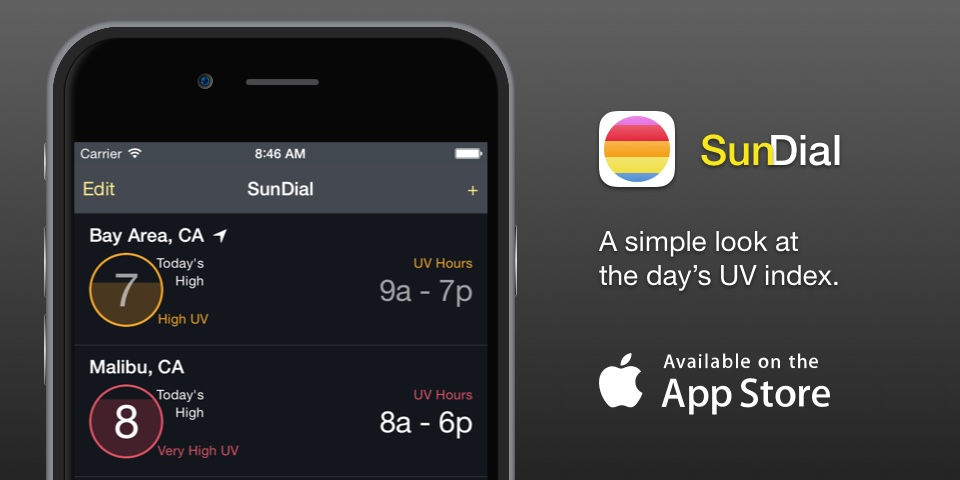
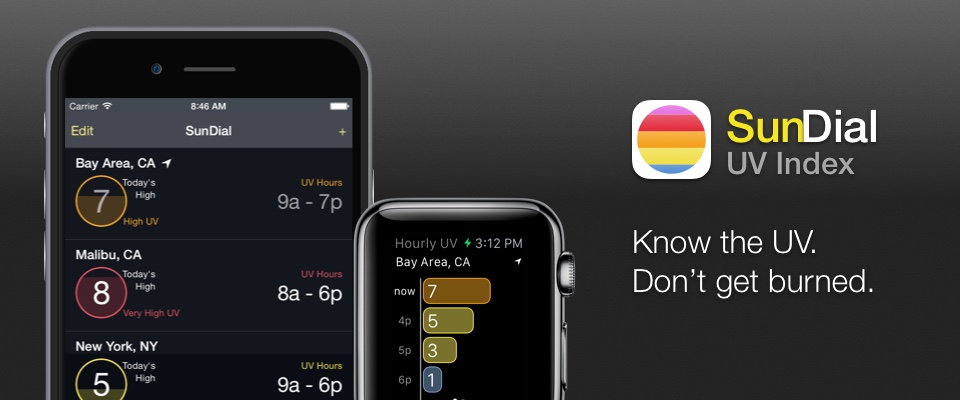
SunDial site June re-vamp.
Added new images which include apple watch app.
Added why uv and why sundial divs.
Re-styled text and headers.

diff --git a/index.html b/index.html
@@ -18,19 +18,61 @@
 -->
             </div>
             <a href="https://itunes.apple.com/us/app/sundial-uv-index/id952406318?ls=1&mt=8">
+              <div class = "heroImageContainer">
                <div class = "heroImage">
                </div>
+               </div>
             </a>
-           <div class = "aboutDiv">
-               Here at Appremium, we are dedicated to building helpful, easy to use apps.
+           <div class = "whyUVDiv">
+               <h1>Why UV?</h1>
+               <h2><b>Sun Burn, Skin Aging, </b>
+               <br>
+               <i>and even</i> <b>Skin Cancer.</b></h2>
                <br>
                <br>
-               We believe applications should free your time and your mind, not consume them.
+               The UV Index is a measurement of Ultraviolet Radiation from the Sun.
+               <br>
+               <br>
+                 The UV Index shows how intense the Sun's rays are at a given time.
+                 <br>
+                 <br>
+                 <br>
+                  <br>
+Too much exposure to UV rays can cause skin damage.
+        <br>
+        <br>
+        This can result in sun burns, as well as pre-mature aging and wrinkling of the skin.
+         <br>
+         <br>
+          UV over-exposure is also the primary cause of the skin cancer Melanoma.
+          <br>
+          <br>
+          <br>
+          <br>
+          By wearing Sun protection, and by avoiding UV over-exposure, you can help reduce your risk of skin damage.
+          <a href="http://www.epa.gov">
+          <div class = "Button">
+              <h3><b>Learn more about the UV Index. ></b></h3>
+          </div>
+          </a>
+           </div>
+           <div class = "whySunDialDiv">
+               <h1>How does SunDial help?</h1>
+<!--               <h3><b>SunDial: UV Index takes the guesswork out of avoiding UV over-exposure.</b></h3>-->
+               <div class = "featureRect">
+               <h2><b>UV, on the go.</b></h2>
+               <h3>With SunDial, accurate and up-to-date UV index forecasts are right on your phone or wrist.</h3>
+               </div>
+               <div class = "featureRect">
+               <h2><b>UV, at your location.</b></h2>
+               <h3>SunDial automatically detects your location and shows the current and upcoming UV index for wherever you are.</h3>
+               <i>(SunDial only works within the USA)</i>
+               </div>
            </div>
             <div class = "newsDiv">
-                <b>News:
-                <br>
-                <br>SunDial update 2.0.1 released!
+                <h1>News:</h1>
+                <b>
+                SunDial update 2.0.1 released!
                 <br>
                 </b><i>5/18/2015</i>
                 <br>
@@ -56,9 +98,7 @@
                 :)
             </div>
            <div class = "contactDiv">
-              <i>Get in touch:</i>
-              <br>
-              <br>
+              <h3><i>Get in touch:</i></h3>
                 <b>contact@appremium.com</b>
            </div>
            <div class = "footer">

diff --git a/stylesheet.css b/stylesheet.css
@@ -6,12 +6,24 @@ html, body {
     color: #1d323d;
 }
 
-a{
+a {
     color: #1d323d;    
 }
 
-h1{
-    color: #1d323d
+h1 {
+    color: #1d323d;
+    font-weight: 200;
+    font-size: 3.4em;
+}
+
+h2 {
+    font-weight: 200;
+    font-size: 2.4em;
+}
+
+h3 {
+    font-weight: 200;
+    font-size: 1.6em;
 }
 
 h4 {
@@ -20,7 +32,8 @@ h4 {
 
 .container {
     min-height: 100%;
-    width: 960px;
+    /*width: 960px;*/
+    width: 100%;
     margin-left: auto;
     margin-right: auto;
 }
@@ -43,25 +56,45 @@ h4 {
     display: inline;
 }
 
-.getintouchbutton {
-    width: 128px;
-    height: 32px;
-    font-size: 0.5em;
+.Button {
+    margin-left: 20%;
+    margin-right: 20%;
     text-align: center;
     line-height: 2em;
-    margin-top: 2%;
-    background: #FFFFFF;
+    margin-top: 8%;
+    background-color: white;
     border: 1px solid #333333;
     box-shadow: 0px 1px 2px 0px rgba(0,0,0,0.50);
-    display: inline;
-    float: right;
+}
+
+.featureRect {
+/*
+    margin-left: 10%;
+    margin-right: 10%;
+*/
+    text-align: left;
+    line-height: 2em;
+    margin-top: 8%;
+    background-color: transparent;
+    border-bottom: 2px solid #333333;
+/*    border-top: 2px solid #333333;*/
+}
+
+.heroImageContainer {
+    height: 400px;
+    box-shadow: inset 0px 1px 2px 0px #333333;
+    position: relative;
+    background-image: linear-gradient(-180deg, #616161 0%, #242424 50%);
+    background-position: center;
+    background-repeat: no-repeat;
+    border: 1px solid #586870;
+    border-top: 0px;
 }
 
 .heroImage {
-    height: 480px;
+    height: 400px;
     box-shadow: inset 0px 1px 2px 0px #333333;
     position: relative;
-    background-color: #333333;
     background-image: -webkit-image-set(                 url(images/SunDial_Hero@1x.jpg) 1x, url(images/SunDial_Hero@2x.jpg) 2x);
     background-position: center;
     background-repeat: no-repeat;
@@ -69,16 +102,29 @@ h4 {
     border-top: 0px;
 }
 
-.aboutDiv {
+.whyUVDiv {
     padding: 5%;
+    padding-top: 2%;
     text-align: left;
-    font-size: 1.2em;
+/*    font-size: 1.8em;*/
     border: 1px solid #586870;
     border-top: 0px;
+    background-color: white;
+}
+
+.whySunDialDiv {
+    padding: 5%;
+    padding-top: 2%;
+    text-align: left;
+/*    font-size: 1.8em;*/
+    border: 1px solid #586870;
+    border-top: 0px;
+    background-color: white;
 }
 
 .newsDiv {
     padding: 5%;
+    padding-top: 2%;
     text-align: left;
     font-size: 1.2em;
     border: 1px solid #586870;
@@ -87,6 +133,7 @@ h4 {
 
 .contactDiv {
     padding: 5%;
+    padding-top: 2%;
     text-align: left;
     font-size: 1.2em;
     border: 1px solid #586870;
@@ -127,7 +174,7 @@ h4 {
         background-size: contain;
     }
     
-    .aboutDiv {
+    .whyUVDiv {
         font-size: 3em;  
         padding: 5%;
     }
